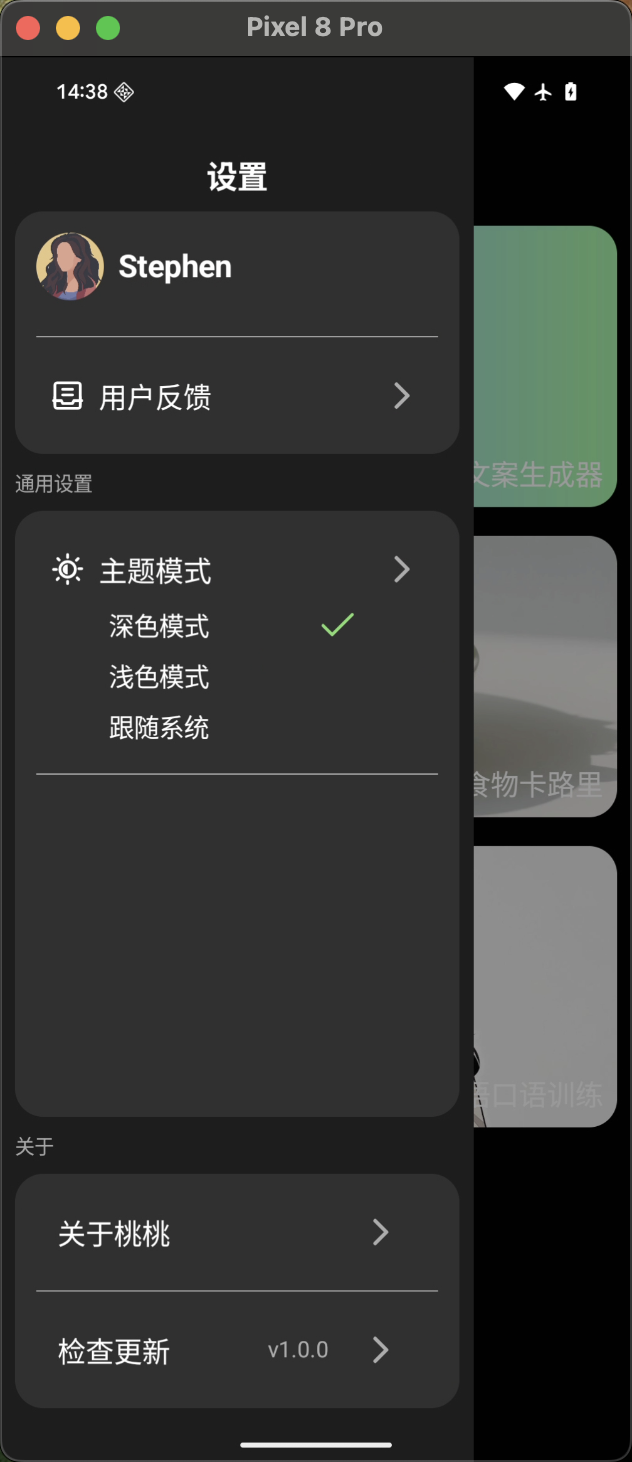
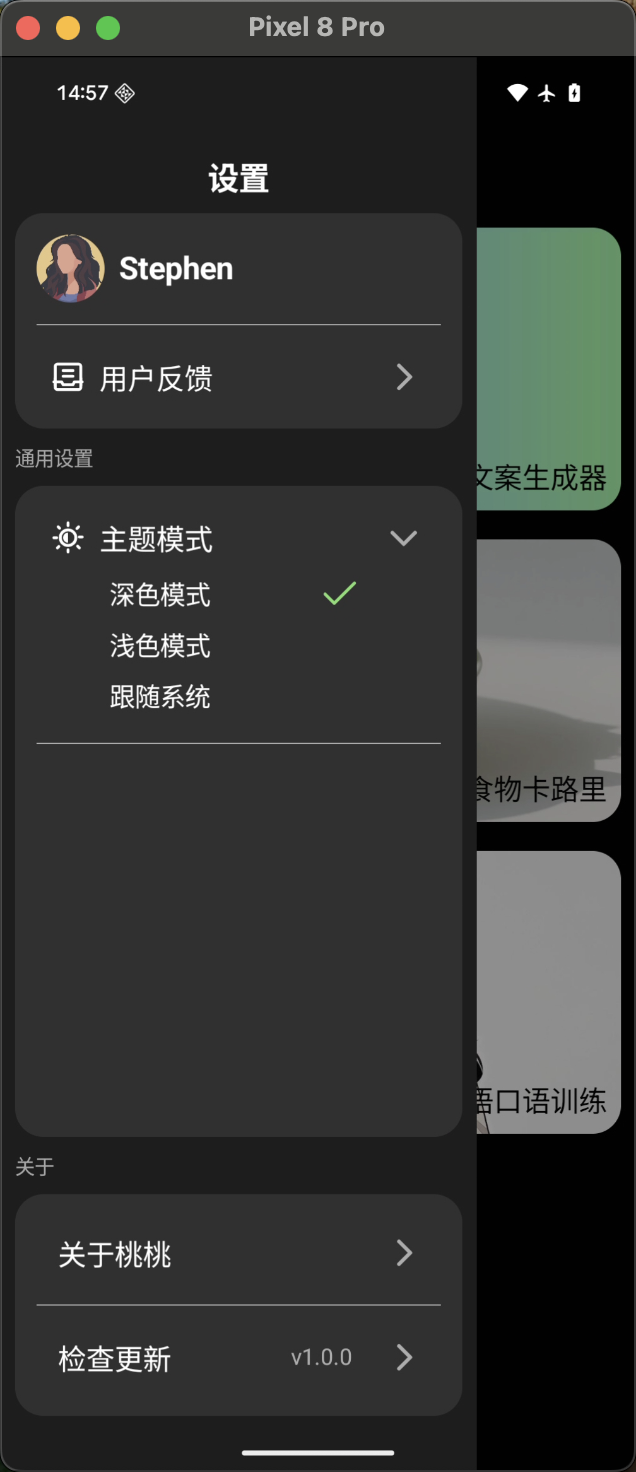
feat:加入主题箭头旋转动效

diff --git a/composeApp/src/commonMain/kotlin/com/stephen/aiassistant/ui/pages/SideSettingsView.kt b/composeApp/src/commonMain/kotlin/com/stephen/aiassistant/ui/pages/SideSettingsView.kt
@@ -8,6 +8,7 @@ import aiassistant.composeapp.generated.resources.ic_theme
 import aiassistant.composeapp.generated.resources.test_avatar
 import androidx.compose.animation.AnimatedVisibility
 import androidx.compose.animation.animateContentSize
+import androidx.compose.animation.core.animateFloatAsState
 import androidx.compose.animation.core.tween
 import androidx.compose.animation.fadeIn
 import androidx.compose.animation.fadeOut
@@ -35,6 +36,7 @@ import androidx.compose.runtime.remember
 import androidx.compose.ui.Alignment
 import androidx.compose.ui.Modifier
 import androidx.compose.ui.draw.clip
+import androidx.compose.ui.draw.rotate
 import androidx.compose.ui.graphics.Color
 import androidx.compose.ui.graphics.ColorFilter
 import androidx.compose.ui.input.pointer.pointerInput
@@ -64,6 +66,11 @@ fun SideSettingsView(
 
     val themePanelExpandState = remember { mutableStateOf(false) }
 
+    val themeArrowRotateAnim = animateFloatAsState(
+        if (themePanelExpandState.value) 90f else 0f,
+        label = "themeArrowRotateAnim"
+    )
+
     val themeState = viewModel.themeState.collectAsState()
 
     Row(modifier = modifier) {
@@ -87,7 +94,7 @@ fun SideSettingsView(
                     .background(MaterialTheme.colorScheme.surface)
             ) {
                 Row(
-                    modifier = Modifier.padding(bottom = 10.dp).clickable {
+                    modifier = Modifier.clickable {
                         onClickPersonalSettings()
                     }.padding(15.dp),
                     verticalAlignment = Alignment.CenterVertically
@@ -109,7 +116,7 @@ fun SideSettingsView(
                     verticalAlignment = Alignment.CenterVertically,
                     modifier = Modifier.fillMaxWidth(1f).clickable {
                         Napier.i("onClick user feedback")
-                    }.padding(15.dp)
+                    }.padding(horizontal = 15.dp, vertical = 10.dp)
                 ) {
                     Image(
                         contentDescription = "user feedback",
@@ -145,7 +152,7 @@ fun SideSettingsView(
                     }
                     .clip(RoundedCornerShape(20.dp))
                     .background(MaterialTheme.colorScheme.surface)
-                    .padding(15.dp)
+                    .padding(horizontal = 15.dp, vertical = 10.dp)
             ) {
                 // 主题模式选择column
                 Column(
@@ -170,10 +177,10 @@ fun SideSettingsView(
                         CenterText(
                             text = "主题模式",
                             style = titleSecondText,
-                            modifier = Modifier.padding(vertical = 10.dp)
+                            modifier = Modifier.padding(vertical = 5.dp)
                         )
                         Spacer(Modifier.weight(1f))
-                        MoreArrow()
+                        MoreArrow(modifier = Modifier.rotate(themeArrowRotateAnim.value))
                     }
                     AnimatedVisibility(
                         visible = themePanelExpandState.value,
@@ -206,29 +213,31 @@ fun SideSettingsView(
                     .fillMaxWidth(1f)
                     .clip(RoundedCornerShape(20.dp))
                     .background(MaterialTheme.colorScheme.surface)
-                    .padding(horizontal = 15.dp)
+                    .padding(15.dp)
             ) {
                 Row(
                     verticalAlignment = Alignment.CenterVertically,
-                    modifier = Modifier.fillMaxWidth(1f).padding(15.dp)
+                    modifier = Modifier.padding(bottom = 10.dp).fillMaxWidth(1f)
                 ) {
                     CenterText(
                         text = "关于桃桃",
                         style = titleSecondText,
-                        modifier = Modifier.padding(vertical = 10.dp)
+                        modifier = Modifier.padding(start = 15.dp)
                     )
                     Spacer(Modifier.weight(1f))
                     MoreArrow()
                 }
-                DeviderLine(modifier = Modifier.fillMaxWidth(1f).height(1.dp))
+                DeviderLine(
+                    modifier = Modifier.padding(bottom = 10.dp).fillMaxWidth(1f).height(1.dp)
+                )
                 Row(
                     verticalAlignment = Alignment.CenterVertically,
-                    modifier = Modifier.fillMaxWidth(1f).padding(15.dp)
+                    modifier = Modifier.fillMaxWidth(1f)
                 ) {
                     CenterText(
                         text = "检查更新",
                         style = titleSecondText,
-                        modifier = Modifier.padding(vertical = 10.dp)
+                        modifier = Modifier.padding(start = 15.dp)
                     )
                     Spacer(Modifier.weight(1f))
                     CenterText(
@@ -380,11 +389,11 @@ fun ThemeChooseView(
 }
 
 @Composable
-fun MoreArrow() {
+fun MoreArrow(modifier: Modifier = Modifier) {
     Image(
         painter = painterResource(Res.drawable.ic_menu_more),
         contentDescription = null,
         colorFilter = ColorFilter.tint(MaterialTheme.colorScheme.onSecondary),
-        modifier = Modifier.padding(10.dp).size(32.dp)
+        modifier = modifier.padding(10.dp).size(32.dp)
     )
 }

diff --git a/composeApp/src/commonMain/kotlin/com/stephen/aiassistant/ui/ContentView.kt b/composeApp/src/commonMain/kotlin/com/stephen/aiassistant/ui/ContentView.kt
@@ -184,7 +184,6 @@ fun ContentView(
                         viewModel.setSettingsViewOpenState(false)
                         navController.navigate(PageNavKey.PERSONAL_CENTER)
                     }) {
-                    Napier.i("dismiss settings view")
                     viewModel.setSettingsViewOpenState(false)
                 }
             }
